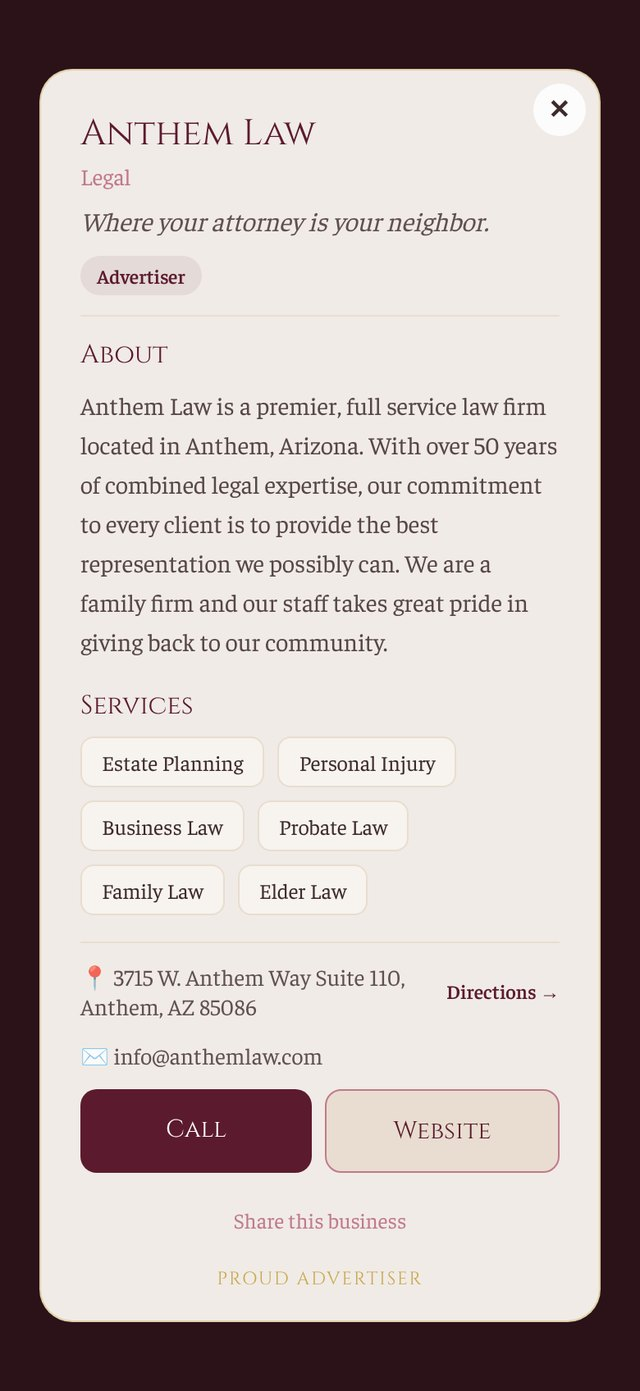
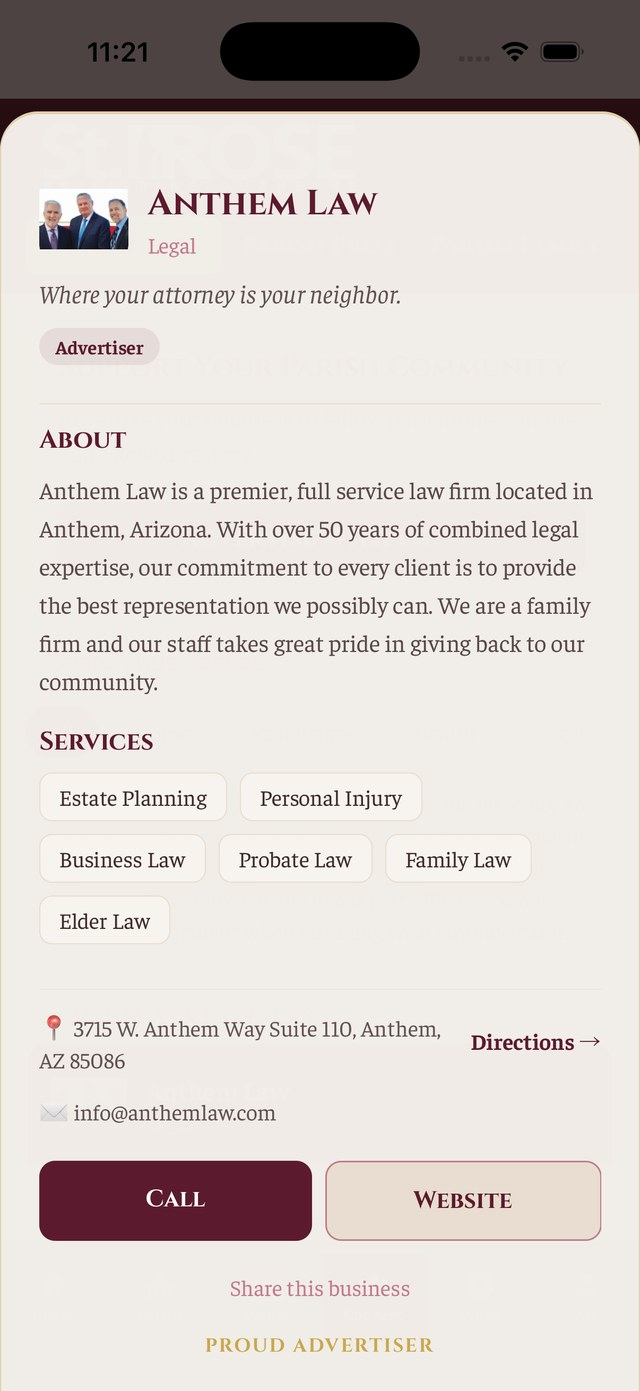
Use real app screenshot of Anthem Law listing on advertiser intro

diff --git a/advertiser-intro/index.html b/advertiser-intro/index.html
@@ -325,7 +325,7 @@ h1, h2 {
         <p class="lead">Anthem Law's listing puts a phone call, driving directions and their website right at a neighbor's fingertips.</p>
       </div>
       <div class="shot">
-        <img src="/images/app/adv-listing.jpg" alt="Anthem Law's full listing with its address, a Directions link, and Call and Website buttons" width="640" height="1391" loading="lazy">
+        <img src="/images/app/adv-listing.jpg?v=2" alt="Anthem Law's listing in the Saint Rose app, with its logo, address, a Directions link, and Call and Website buttons" width="640" height="1391" loading="lazy">
       </div>
     </section>
 
